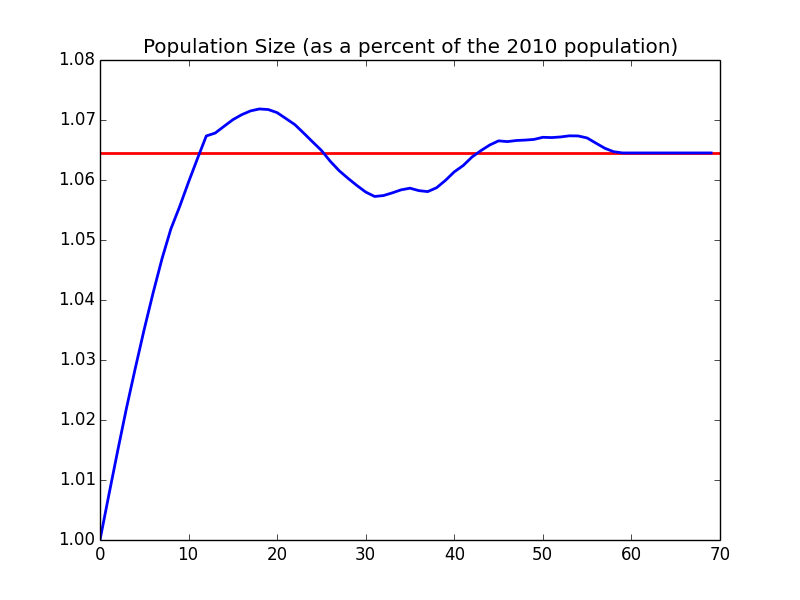
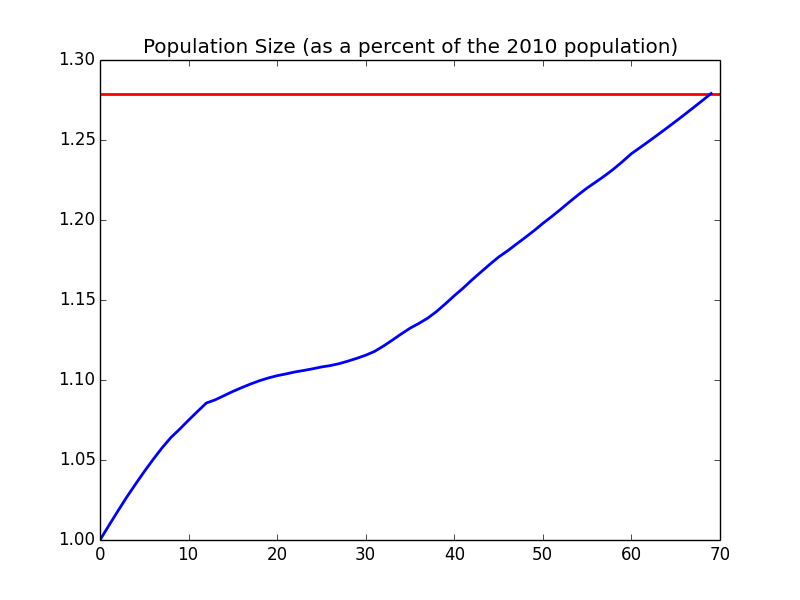
OLG

diff --git a/Python/demographics/demographics.py b/Python/demographics/demographics.py
@@ -77,7 +77,7 @@ def get_fert(S, J):
     fert_rate = fert_rate[ 60%S : : 60/S ]
     fert_rate = np.tile(fert_rate.reshape(S,1), (1,J))
     children = np.zeros((15, J))
-    return fert_rate, children
+    return fert_rate/2.0, children
 
 
 # # x = np.arange(35) + 15
